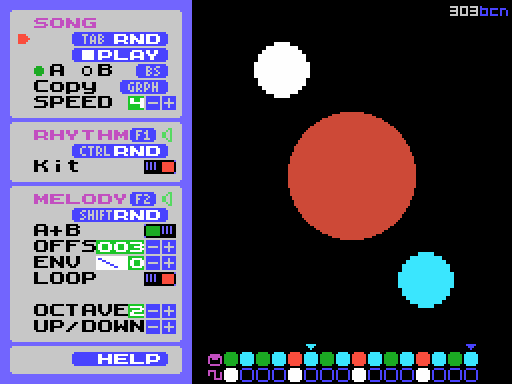
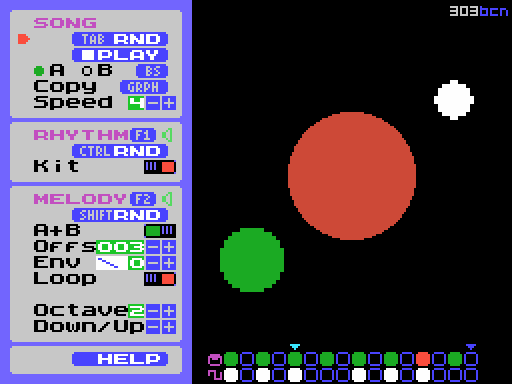
transpose bug #64

diff --git a/sources/tarp.c b/sources/tarp.c
@@ -111,6 +111,8 @@ typedef struct {
 typedef struct {
 
   char octave;
+  char transpose;
+  
   boolean AB_MIX;
   char    AB_offset;
   char Envelope;
@@ -280,7 +282,7 @@ char _last_step;
 char _ENDstep;  //to control the size of the pattern
 char _newENDstep;
 
-//char _octave;
+char _transpose;
 
 boolean _ToneEnabled; //_ToneEnabled
 boolean _DrumEnabled; //_DrumEnabled
@@ -587,7 +589,7 @@ void WorkWin()
             switch (_cursor_pos)   //{0x1841,0x1901,0x19A1,0x19C1,0x1A01,0x1A21,0x1A41,0x1A81,0x1AA1};
             {
               case 5: //tempo
-                if (_songSpeed<8) _songSpeed++;                
+                if (_songSpeed<9) _songSpeed++;                
                 VPrintNum(GUI_TEMPO_VADDR, _songSpeed, 1);
                 break;
               case 8: //Drum KIT Switcher
@@ -1017,12 +1019,14 @@ void initPatternsData()
     
     //_pattern = (PATTERN *) patternA;
     
-    patternA.octave = 2;
+    patternA.octave = 1;
+    patternA.transpose = 12;
     patternA.AB_MIX = true;
     patternA.AB_offset = 3;
     patternA.Envelope = 0;
     
-    patternB.octave = 2;
+    patternB.octave = 1;
+    patternB.transpose = 12;
     patternB.AB_MIX = true;
     patternB.AB_offset = 3;
     patternB.Envelope = 0;
@@ -1048,21 +1052,14 @@ void initPatternsData()
 void PlayerInit()
 {
     _songSpeed = 4;
-    //_AB_offset = 3;
-    //_env_index=0;
-    //_env_speed=1;
+
     _env_step=0;
-    //_octave=2;
-    
-    //prev_octave=_octave;
-    
+       
     _songSpeedStep = _songSpeed;
     _pattern_step=0;
     _last_step=0;
     _ENDstep = 15;  //to control the size of the pattern
     _newENDstep = _ENDstep;
-    
-    //VPOKE(GUI_SEQ_VADDR+_ENDstep,GUI_SEQLENCURSOR);
     
     _pattern = (PATTERN *) patternA; 
     
@@ -1447,6 +1444,7 @@ void CopyPattern()
   }
   
   _destination->octave = _pattern->octave;
+  _destination->transpose = _pattern->transpose;
   _destination->AB_MIX = _pattern->AB_MIX;
   _destination->AB_offset = _pattern->AB_offset;
   _destination->Envelope = _pattern->Envelope;
@@ -1530,20 +1528,21 @@ void genTonePattern()
   
   char i;
   
+  _pattern->transpose = 12;
   
-  for(i=0;i<16;i++) _pattern->tone[i]=0;
+  for(i=0;i<16;i++) _pattern->tone[i]=0; //empty
   
-  type=Rnd(3)+1; 
-  if (type==1) increment=0;
+  type=Rnd(3)+1;  //determines the number of notes
+  //if (type==1) increment=0;  //It is not necessary
   if (type==2) increment=4;
   if (type>2) increment=2;
    
   type++;
   for(i=1;i<type;i++)
   {
-    value=Rnd(15);
-    if(value>11) value=0;
-    _pattern->tone[conta]=value+1;
+    value=Rnd(15);    // generate random note
+    if(value>11) _pattern->tone[conta]=0;  //empty
+    else _pattern->tone[conta]=value+1+12; //adds an octave (12) for the transpose functionality    
     conta=conta+increment;
   }
   
@@ -1599,7 +1598,7 @@ void ShowTonePattern()
 void upOctave()
 {
   if (_pattern->octave>0) _pattern->octave--;
-  else _pattern->octave=6;
+  //else _pattern->octave=6;
   showOctave();
 }
 
@@ -1607,8 +1606,8 @@ void upOctave()
 
 void downOctave()
 {
-   if (_pattern->octave<6) _pattern->octave++;
-   else _pattern->octave=0;
+   if (_pattern->octave<5) _pattern->octave++;
+   //else _pattern->octave=1;
    showOctave();
 }
 
@@ -1616,7 +1615,7 @@ void downOctave()
 
 void showOctave()
 {
-  VPrintNum(GUI_OCTA_VADDR, _pattern->octave, 1);
+  VPrintNum(GUI_OCTA_VADDR, _pattern->octave+1, 1);
 }
 
 
@@ -1634,16 +1633,23 @@ void showABoffset()
 }
 
 
+
 // sube una nota el patron de tono
 void TransposeUp()
 {
   char i;
   char value;
   
-  for(i=0;i<16;i++)
+  if (_pattern->transpose<24)
   {
-    value = _pattern->tone[i];
-    if(value>0 && value<12) _pattern->tone[i]++; //value>0 && value<96
+    _pattern->transpose++;
+    
+    for(i=0;i<16;i++)
+    {
+        value = _pattern->tone[i];
+        if(value>0) _pattern->tone[i]++;
+        //if(value>0 && value<12)
+    }
   }
   
   return;  
@@ -1657,10 +1663,16 @@ void TransposeDown()
   char i;
   char value;
   
-  for(i=0;i<16;i++)
+  
+  if (_pattern->transpose>0)
   {
-    value = _pattern->tone[i];
-    if(value>2) _pattern->tone[i]--;
+    _pattern->transpose--;    
+    
+    for(i=0;i<16;i++)
+    {
+      value = _pattern->tone[i];
+      if(value>0) _pattern->tone[i]--;
+    }
   }
   
   return;  
